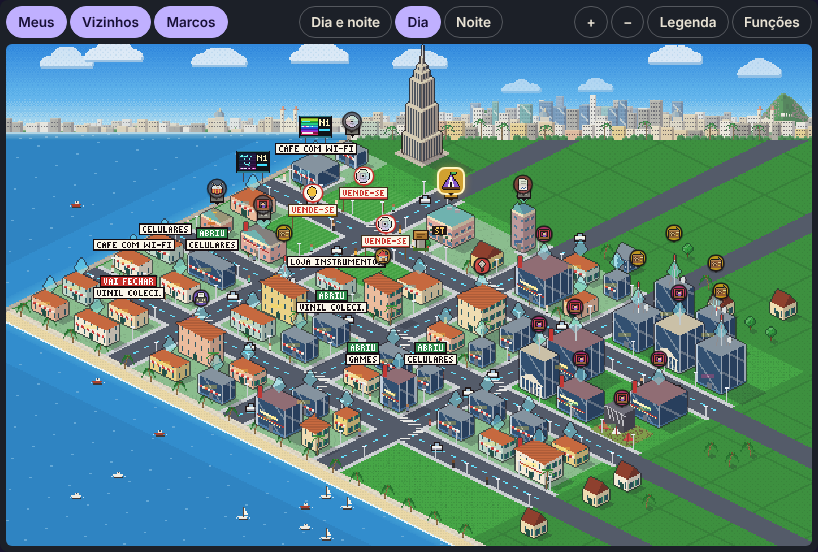
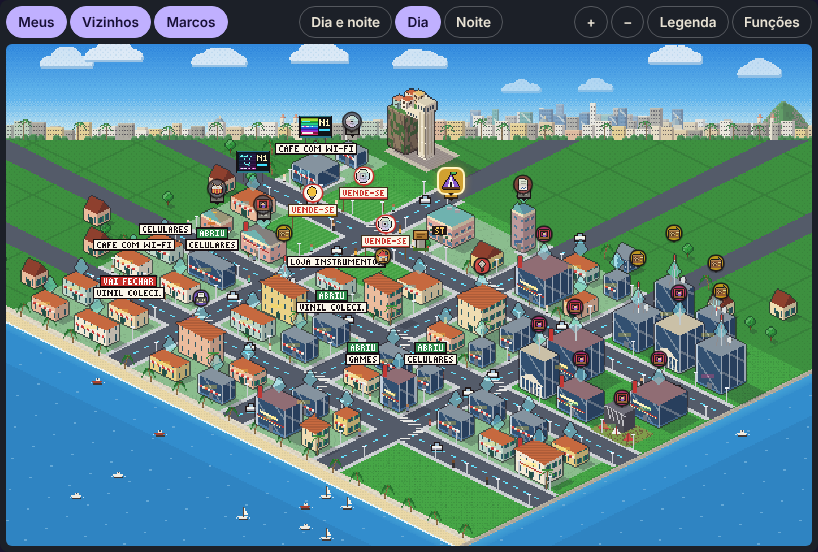
R31 onda 4 (GEO): mapa orientado por cidade (porto na água, casas de show na orla, sem mover lotes), marcos de água na frente como sprites, Elevador Lacerda com desenho próprio
Claude-Session: https://claude.ai/code/session_011XM6gk992aeaeJ7tjK8svn

Changed region(s): [[0.5501, 0.6775, 1.0, 1.0], [0.0, 0.1848, 0.4279, 0.5543], [0.4584, 0.0924, 1.0, 0.308]]

diff --git a/src/ui/pixel/campus18px.ts b/src/ui/pixel/campus18px.ts
@@ -695,7 +695,7 @@ function groundCanvas(env: Env18, seed: number, used: Set<number>, sprites: Spri
   // a favela do morro, as palmeiras do calçadão e os barcos — tudo desenhado de trás para a frente
   const deco = deco31(geo, look, env, seed, lmAt);
   const td = new T(p, 0, 0), tl = new T(gl, 0, 0);
-  const lmItems = lmAt.map((q) => ({ d: q.gx + q.gy, f: () => {
+  const lmItems = lmAt.filter((q) => !q.front).map((q) => ({ d: q.gx + q.gy, f: () => {
     const [lx, ly] = iso(q.gx, q.gy);
     marks.push({ id: q.lm.id, box: drawLmIso27(p, gl, q.lm.id, q.lm.sh, lx, ly, y, q.wet, seed, env.city) });
   } }));
@@ -755,13 +755,15 @@ export function roadOutAt31(geo: Geo31, gx: number, gy: number): boolean {
  *  terra firme. Em lado de rio, o marco de terra vai para a outra margem. Puro sobre a geometria da cena. */
 export const LM_WET31 = new Set(['ny_liberty', 'syd_opera', 'syd_bridge', 'rio_cable', 'lis_belem', 'lis_bridge', 'ist_bridge', 'sf_gate', 'lon_tbridge', 'pra_bridge', 'ny_brooklyn']);
 const LM_HILL31 = new Set(['rio_christ', 'rio_corcovado']);
-export interface LmAt31 { lm: Landmark19; gx: number; gy: number; wet: boolean; tall: boolean }
+export interface LmAt31 { lm: Landmark19; gx: number; gy: number; wet: boolean; tall: boolean; /** na frente do mapa (leste/sul): vira sprite com profundidade */ front?: boolean }
 export function lmPlace31(lms: Landmark19[], geo: Geo31, year: number): LmAt31[] {
   void year;
-  const cand: { gx: number; gy: number; side: 'w' | 'n'; i: number }[] = [];
+  const cand: { gx: number; gy: number; side: 'w' | 'n' | 'e' | 's'; i: number }[] = [];
   const along = [3.4, 9.4, 15.4, 21.4, 27.4];
   along.forEach((v, i) => { if (v < G.gh - 1) cand.push({ gx: -2.7, gy: v, side: 'w', i: i * 2 }); if (v + 1.2 < G.gw - 1) cand.push({ gx: v + 1.2, gy: -2.7, side: 'n', i: i * 2 + 1 }); });
-  const vis = (gx: number, gy: number) => { const [x, yy] = iso(gx, gy); return yy >= HZ + 8 && x > 14 && x < G.mw - 14; };
+  // R31 (GEO): na frente (leste/sul) só marcos de água — porto, ponte, ópera — quando a água do mapa está na frente
+  for (const f of [0.3, 0.5, 0.7]) { cand.push({ gx: G.gw + 2.7, gy: f * G.gh, side: 'e', i: 40 + f * 10 }); cand.push({ gx: f * G.gw, gy: G.gh + 2.7, side: 's', i: 41 + f * 10 }); }
+  const vis = (gx: number, gy: number) => { const [x, yy] = iso(gx, gy); return yy >= HZ + 8 && yy < G.mh - 4 && x > 14 && x < G.mw - 14; };
   const used = new Set<number>(), out: LmAt31[] = [];
   const order = lms.map((lm, k) => ({ lm, slot: (lm as Landmark19 & { slot?: number }).slot ?? k })).sort((a, b) => a.slot - b.slot);
   for (const { lm, slot } of order) {
@@ -769,7 +771,8 @@ export function lmPlace31(lms: Landmark19[], geo: Geo31, year: number): LmAt31[]
     let best: { k: number; gx: number; gy: number; wet: boolean; score: number } | null = null;
     cand.forEach((c, k) => {
       if (used.has(k)) return;
-      const out0 = (e: number): [number, number] => (c.side === 'w' ? [-e, c.gy] : [c.gx, -e]);
+      if ((c.side === 'e' || c.side === 's') && want !== 'wet') return;
+      const out0 = (e: number): [number, number] => (c.side === 'w' ? [-e, c.gy] : c.side === 'n' ? [c.gx, -e] : c.side === 'e' ? [G.gw + e, c.gy] : [c.gx, G.gh + e]);
       const at0 = terrainAt31(geo, ...out0(2.7), G.gw, G.gh);
       let e = 2.7, wet = at0.t === 'water';
       if (want === 'wet' && !wet && at0.w && at0.w.o > 2.7 && at0.w.o < 5) { e = at0.w.o + 0.8; wet = true; }
@@ -785,9 +788,10 @@ export function lmPlace31(lms: Landmark19[], geo: Geo31, year: number): LmAt31[]
     });
     if (!best) continue;
     const b = best as { k: number; gx: number; gy: number; wet: boolean };
+    const side = cand[b.k].side;
     if (b.wet && want !== 'wet') continue; // marco de terra sem lugar em terra firme não vira ilha: fica de fora do mapa
     used.add(b.k);
-    out.push({ lm, gx: b.gx, gy: b.gy, wet: b.wet, tall: slot % 4 < 2 });
+    out.push({ lm, gx: b.gx, gy: b.gy, wet: b.wet, tall: slot % 4 < 2 && side !== 'e' && side !== 's', front: side === 'e' || side === 's' });
   }
   return out;
 }
@@ -1055,6 +1059,18 @@ export function buildScene18(bs: Bld18[], lots: Map<string, number>, env: Env18,
   sprites.sort((a, b) => a.depth - b.depth);
   const marks: Mark19[] = [];
   const gr = groundCanvas(env, seed, used, sprites, lmAt, marks, look, x.sale ?? []);
+  // R31 (GEO): marco de água na frente do mapa (ponte, ópera, estátua do porto): sprite com profundidade, não chão
+  for (const q of lmAt) if (q.front) {
+    const QW = 150, QH = 150, AX = 75, AY = 116;
+    const [lx, ly] = iso(q.gx, q.gy);
+    const pc = new Px(QW, QH), pl = new Px(QW, QH);
+    const bx = drawLmIso27(pc, pl, q.lm.id, q.lm.sh, AX, AY, env.year, q.wet, seed, env.city);
+    const ox = Math.round(lx - AX), oy = Math.round(ly - AY);
+    const box: [number, number, number, number] = [bx[0] + ox, bx[1] + oy, bx[2] + ox, bx[3] + oy];
+    marks.push({ id: q.lm.id, box });
+    sprites.push({ id: `lmk:${q.lm.id}`, c: pc.canvas(), lc: pl.canvas(), x: ox, y: oy, depth: q.gx + q.gy, box, door: [lx, ly], top: [lx, box[1]], fp: [q.gx, q.gy, 0, 0], kind: 'museum', st: 'open', filler: true });
+  }
+  sprites.sort((a, b) => a.depth - b.depth);
   // r27: placas "À venda" como sprites com profundidade (não somem atrás do prédio da frente)
   const signs: SaleSign27[] = (x.sale ?? []).filter((sl) => LOTS18[sl.lot]).map((sl) => saleSign27(sl, x.saleTxt ?? 'VENDA'));
   // r27 (I2): se um prédio da FRENTE cobre a placa, ela sobe acima do telhado dele (com haste até o lote)

diff --git a/src/data/geo31.ts b/src/data/geo31.ts
@@ -125,8 +125,8 @@ const ROWS: Geo31[] = [
   g('rotterdam', 's:river:quay:Nieuwe Maas~4', '', 'Nieuwe Maas ao sul, porto.'),
   g('brussels', '', '', 'Terra em volta.'),
   g('vienna', 'e:river:quay:Rio Danúbio~3', '', 'Danúbio a leste.'),
-  g('budapest', 'w:river:quay:Rio Danúbio (Buda)~4!hills', 'w:0.5', 'Pest no mapa; Danúbio a oeste com as colinas de Buda do outro lado.'),
-  g('prague', 'w:river:quay:Rio Vltava (Malá Strana)~2', 'w:0.4', 'Vltava a oeste, castelo no alto da outra margem.'),
+  g('budapest', 'w:river:quay:Rio Danúbio (Buda)~4!hills', '', 'Pest no mapa; Danúbio a oeste com as colinas de Buda do outro lado.'),
+  g('prague', 'w:river:quay:Rio Vltava (Malá Strana)~2!hills', '', 'Vltava a oeste, castelo no alto da outra margem.'),
   g('warsaw', 'e:river:quay:Rio Vístula~3', '', 'Vístula a leste.'),
   g('moscow', 's:river:quay:Rio Moscova~2', '', 'Rio Moscova ao sul.'),
   g('st_petersburg', 'n:river:quay:Rio Neva~4; w:bay:quay:Golfo da Finlândia+5', '', 'Neva ao norte, golfo a oeste.'),
@@ -266,3 +266,51 @@ export function terrainAt31(gg: Geo31, gx: number, gy: number, gw: number, gh: n
 /** Lados com água de cada tipo (para o horizonte). */
 export const waterSides31 = (gg: Geo31): Set<Side31> => new Set(gg.water.filter((w) => w.o < 5).map((w) => w.side));
 export const hillOn31 = (gg: Geo31, side: Side31): Hill31 | undefined => gg.hills.find((h) => h.side === side);
+
+// ---------------------------------------------------------------- orientação do mapa por cidade
+// A tabela acima está na bússola real. O mapa do jogo tem bairros fixos (lotes são dado de jogo: a vizinhança entre eles
+// entra na simulação): o PORTO e a estação ficam na borda leste/sudeste (lotes 31–42) e a ZONA DAS CASAS DE SHOW na borda
+// sul/sudoeste (lotes da boemia). Em vez de mover lotes, o mapa de cada cidade é GIRADO/ESPELHADO (8 orientações) para
+// que o porto encoste na água do porto, a boemia fique na orla da praia e os morros fiquem no fundo, onde o horizonte
+// os mostra. A geografia continua a mesma — só muda de que lado da tela ela aparece.
+
+/** Matriz [a, b, c, d] sobre o quadrado do mapa (x de oeste→leste, y de norte→sul): x' = a·x + b·y, y' = c·x + d·y. */
+export type Xf31 = [number, number, number, number];
+export const XF31: Xf31[] = [[1, 0, 0, 1], [0, -1, 1, 0], [-1, 0, 0, -1], [0, 1, -1, 0], [-1, 0, 0, 1], [1, 0, 0, -1], [0, 1, 1, 0], [0, -1, -1, 0]];
+const pt31 = (sd: Side31, t: number): [number, number] => (sd === 'n' ? [2 * t - 1, -1] : sd === 'e' ? [1, 2 * t - 1] : sd === 's' ? [2 * t - 1, 1] : [-1, 2 * t - 1]);
+const ap31 = (m: Xf31, [x, y]: [number, number]): [number, number] => [m[0] * x + m[1] * y, m[2] * x + m[3] * y];
+const sideAt31 = ([x, y]: [number, number]): Side31 => (y <= -0.999 ? 'n' : y >= 0.999 ? 's' : x >= 0.999 ? 'e' : 'w');
+const tOn31 = (sd: Side31, [x, y]: [number, number]): number => Math.round(((sd === 'n' || sd === 's' ? x : y) + 1) * 500) / 1000;
+/** Geografia vista com a matriz m (lados e trechos trocados; o resto igual). */
+export function xfGeo31(g: Geo31, m: Xf31): Geo31 {
+  const side = (sd: Side31) => sideAt31(ap31(m, pt31(sd, 0.5)));
+  return { ...g, water: g.water.map((w) => {
+    const sd = side(w.side), ta = tOn31(sd, ap31(m, pt31(w.side, w.a))), tb = tOn31(sd, ap31(m, pt31(w.side, w.b)));
+    return { ...w, side: sd, a: Math.min(ta, tb), b: Math.max(ta, tb) };
+  }), hills: g.hills.map((h) => ({ ...h, side: side(h.side) })) };
+}
+/** Nota da orientação: o porto (lotes do leste) pede a água do porto a leste no trecho 0,55–0,75; a boemia (sul) pede a
+ *  praia ao sul no trecho 0,1–0,4; morros valem no fundo (n/w) e atrapalham na frente. Sem nada a ganhar, fica a bússola real. */
+export function orientScore31(g: Geo31): number {
+  const cov = (w: Water31, t: number) => w.a <= t && w.b >= t && w.o < 3;
+  let sc = 0;
+  const port = g.water.filter((w) => w.shore === 'quay' && w.k !== 'lake');
+  if (port.some((w) => w.side === 'e' && cov(w, 0.65))) sc += 3;
+  else if (g.water.some((w) => w.side === 'e' && cov(w, 0.65))) sc += 1.5;
+  const beach = g.water.filter((w) => w.shore === 'beach');
+  if (beach.some((w) => w.side === 's' && cov(w, 0.25))) sc += 2;
+  else if (beach.some((w) => w.side === 'e' && cov(w, 0.65))) sc += 0.5;
+  for (const h of g.hills) sc += h.amp < 0.3 ? 0 : h.side === 'n' || h.side === 'w' ? 1 : -2;
+  return sc;
+}
+const ORIENT31 = new Map<string, Geo31 & { xf: number }>();
+/** Geografia como aparece no mapa do jogo (orientada para o porto, a orla e os morros no fundo). */
+export function mapGeo31(city: string): Geo31 & { xf: number } {
+  const hit = ORIENT31.get(city);
+  if (hit) return hit;
+  const g = geo31(city);
+  let best = { ...g, xf: 0 }, bs = orientScore31(g) + 0.6;
+  XF31.forEach((m, i) => { if (!i) return; const x = xfGeo31(g, m), sc = orientScore31(x) + (i < 4 ? 0.3 : 0); if (sc > bs + 1e-9) { bs = sc; best = { ...x, xf: i }; } });
+  ORIENT31.set(city, best);
+  return best;
+}

diff --git a/tests/r31-geo.test.ts b/tests/r31-geo.test.ts
@@ -4,7 +4,8 @@ import { defaultConfig } from '../src/sim/bot';
 import { createGame } from '../src/sim/worldgen';
 import { CITIES } from '../src/data/world';
 import { DIST18, LOTS18 } from '../src/sim/sys/campus18';
-import { GEO31, ISLANDS31, SIDES31, geo31, isIsland31, terrainAt31 } from '../src/data/geo31';
+import { GEO31, ISLANDS31, SIDES31, geo31, isIsland31, mapGeo31, terrainAt31 } from '../src/data/geo31';
+import { hasBespoke27 } from '../src/ui/pixel/lmiso27';
 import { BAY27, BRICK27, STONE27, TOWERS27, cityLook27, mapLms27 } from '../src/ui/pixel/city27';
 import { LM_WET31, geo18, lmPlace31, outerLots31, useGeo18 } from '../src/ui/pixel/campus18px';
 
@@ -20,7 +21,7 @@ describe('R31 GEO: tabela de geografia', () => {
     for (const c of Object.keys(GEO31)) expect(CITIES.some((x) => x.id === c) || sets.has(c), `cidade ${c} existe`).toBe(true);
   });
   it('nenhuma cidade é ilha (água nos quatro lados) salvo as marcadas como ilha', () => {
-    for (const g of Object.values(GEO31)) expect(isIsland31(g), g.city).toBe(ISLANDS31.has(g.city));
+    for (const g of Object.values(GEO31)) { expect(isIsland31(g), g.city).toBe(ISLANDS31.has(g.city)); expect(isIsland31(mapGeo31(g.city)), g.city).toBe(ISLANDS31.has(g.city)); }
     for (const c of ['rio', 'salvador', 'lisbon', 'barcelona', 'miami', 'sydney', 'istanbul']) expect(isIsland31(geo31(c)), c).toBe(false);
   });
   it('exemplos do dono: Rio (praia ao sul, baía, morro com favela), SP sem mar, Londres/Paris com rio, NY com rio dos dois lados', () => {
@@ -43,7 +44,7 @@ describe('R31 GEO: tabela de geografia', () => {
 
 describe('R31 GEO: nada em cima da água', () => {
   it('nenhum lote (em nenhum tamanho de mapa) cai em água, praia, cais ou outra margem', () => {
-    for (const g of Object.values(GEO31)) for (const [gw, gh] of GEOS) for (const lot of LOTS18) {
+    for (const g of [...Object.values(GEO31), ...Object.keys(GEO31).map(mapGeo31)]) for (const [gw, gh] of GEOS) for (const lot of LOTS18) {
       if (lot.gx + lot.w > gw || lot.gy + lot.d > gh) continue;
       for (let y = lot.gy; y < lot.gy + lot.d; y += 1) for (let x = lot.gx; x < lot.gx + lot.w; x += 1)
         expect(terrainAt31(g, x + 0.25, y + 0.25, gw, gh).t, `${g.city} ${gw}x${gh} lote ${lot.gx},${lot.gy}`).toBe('land');
@@ -77,5 +78,24 @@ describe('R31 GEO: nada em cima da água', () => {
     const ch = at.find((q) => q.lm.id === 'rio_christ')!, cab = at.find((q) => q.lm.id === 'rio_cable')!;
     expect(terrainAt31(rio.geo, ch.gx, ch.gy, 44, 32).t).toBe('hill');
     expect(cab.wet).toBe(true);
+  });
+});
+
+describe('R31 GEO: mapa orientado (porto na água, boemia na orla) sem mover lotes', () => {
+  it('toda cidade com porto (cais) tem a água do porto encostada nos lotes do porto (borda leste)', () => {
+    for (const g of Object.values(GEO31)) {
+      if (!g.water.some((w) => w.shore === 'quay' && w.k !== 'lake' && w.o < 3)) continue;
+      const m = mapGeo31(g.city);
+      // lote "Cais do porto"/"Ponta do cais" (gx 39–42, gy 18–23) no mapa 44×32: logo depois da borda leste há água
+      const at = terrainAt31(m, 44 + Math.max(...m.water.filter((w) => w.side === 'e').map((w) => w.o), 0.6) + 0.3, 21, 44, 32);
+      expect(at.t, g.city).toBe('water');
+    }
+  });
+  it('praia ao sul (casas de show na orla) quando a cidade tem praia e porto não briga com isso', () => {
+    for (const c of ['rio', 'salvador', 'recife', 'dakar', 'dar_es_salaam', 'manila']) expect(mapGeo31(c).water.some((w) => w.side === 's' && w.shore === 'beach'), c).toBe(true);
+    expect(mapGeo31('rio').xf).toBe(0); // o Rio já estava certo: Copacabana ao sul, Guanabara no porto
+  });
+  it('Elevador Lacerda tem desenho próprio (não é mais o arranha-céu genérico)', () => {
+    expect(hasBespoke27('ssa_lacerda')).toBe(true);
   });
 });

diff --git a/src/ui/pixel/lmiso27.ts b/src/ui/pixel/lmiso27.ts
@@ -788,7 +788,29 @@ function beamBridge(k: K, truss: boolean): Foot {
 // ---------------------------------------------------------------- catálogo
 
 interface Spec { base: Base; draw: (k: K) => Foot }
+/** R31 (GEO): Elevador Lacerda (Salvador) — escarpa da Cidade Alta com casario no alto, torre do elevador na Cidade
+ *  Baixa e passarela até o topo. Art déco creme desde a reforma de 1930; antes, torre de ferro treliçada. */
+function lacerda(k: K): Foot {
+  const deco = k.year >= 1930, rock = C('#8a7660'), green = C('#4e8a44');
+  // escarpa (fundo à esquerda) com mata na encosta e casario colonial no alto
+  ibox(k, -1.5, -0.2, 0.8, 1.1, 0, 30, rock, { top: green, tex: (_sd, s, z) => (noise(Math.floor(s / 2), Math.floor(z / 3), k.seed + 5) < 0.35 ? tn(green, 2) : (Math.floor(s) + Math.floor(z / 4)) % 5 === 0 ? tn(rock, 2) : 0) });
+  const roofs = [C('#c8603c'), C('#e8c070'), C('#d88a6a')], walls = [C('#f0e4cc'), C('#e8c8a0'), C('#a8d0c8'), C('#f4ecdc')];
+  [[-1.9, -0.9], [-1.2, -0.9], [-1.9, 0.3], [-1.2, 0.2]].forEach(([u, v], i) => ibox(k, u, v, 0.3, 0.3, 30, 6 + (i % 2) * 2, walls[i % walls.length], { top: roofs[i % roofs.length], tex: winTex(C('#4a3a30'), 4, 3, { from: 2 }) }));
+  // passarela do topo da torre até a escarpa
+  const tw = deco ? C('#ece2cc') : C('#7a7e86');
+  ibox(k, -0.4, 0.15, 0.75, 0.2, 27, 4, tw, { tex: winTex(C('#3a4a5a'), 4, 2, { from: 1 }) });
+  // torre do elevador
+  const tex: Tex = deco
+    ? (_sd, s, z, len) => (s > 0.5 && s < len - 0.5 && Math.floor(s) % 3 === 1 && z > 4 && z < 36 ? C('#c8bca0') : Math.floor(z) % 12 === 0 ? C('#f8f2e2') : 0)
+    : (_sd, s, z) => ((Math.floor(s) + Math.floor(z)) % 4 === 0 || (Math.floor(s) - Math.floor(z) + 40) % 4 === 0 ? C('#4a4e56') : C('#9aa0a8'));
+  ibox(k, 0.55, 0.15, 0.38, 0.38, 0, 36, tw, { tex });
+  ibox(k, 0.55, 0.15, 0.48, 0.48, 36, 7, tw, { top: deco ? C('#d8cfb8') : C('#5a5e66'), tex: winTex(C('#3a4a5a'), 7, 2, { from: 2, to: 5 }) });
+  if (deco) { const [x, y] = ip(k, 0.55, 0.15, 44); k.p.rect(x - 1, y - 3, 2, 3, tw); lamp(k, x, y - 4, REDL); }
+  for (const z of [38, 40]) { const [x, y] = ip(k, 0.35, 0.6, z); lamp(k, x, y, WARM); lamp(k, x + 3, y - 1, WARM); }
+  return { r1: 1.6, r2: 1.2, h: 46 };
+}
 const BESPOKE: Record<string, Spec> = {
+  ssa_lacerda: { base: 'plaza', draw: lacerda },
   lon_bigben: { base: 'plaza', draw: (k) => bigBen(k) },
   lon_tbridge: { base: 'none', draw: towerBridge },
   lon_eye: { base: 'plaza', draw: wheel },

diff --git a/src/ui/pixel/city27.ts b/src/ui/pixel/city27.ts
@@ -32,7 +32,7 @@ import { bldPop19, lotPop19, upkeep19, type PopAct19 } from '../../sim/sys/world
 import { scandal17 } from '../../sim/scandal17';
 import { LMW27B, LMX27B } from './lmdata27';
 import { ownsLot31 } from '../../sim/sys/lots31';
-import { geo31, waterSides31, type Geo31 } from '../../data/geo31';
+import { mapGeo31, waterSides31, type Geo31 } from '../../data/geo31';
 
 // ---------------------------------------------------------------- utilidades determinísticas
 
@@ -115,7 +115,7 @@ export function cityLook27(city: string, lat: number, year: number): CityLook27 
   const trop = Math.abs(lat) < 30;
   const wall = k === 'brick' ? ['#8a4430', '#7a3a2a', '#9a5a40', '#6a4a40'] : k === 'bay' ? ['#f0d8a8', '#e8a888', '#a8d0c8', '#f4ecdc', '#e8c868'] : k === 'towers' ? (year < 1950 ? ['#a87a5a', '#8a6a5a', '#c8b8a0'] : ['#8a9aa8', '#5a6a80', '#c8ccd0', '#a87a5a']) : k === 'stone' ? ['#e4d6b8', '#d8c8a6', '#ece2cc', '#cdbb98'] : ['#d0c0a0', '#b8a888', '#a0a8b0', '#c89878'];
   // R31 (GEO): água e morros vêm da tabela de geografia (o mapa não é mais cercado de mar por todos os lados)
-  const geo = geo31(city), ws = waterSides31(geo);
+  const geo = mapGeo31(city), ws = waterSides31(geo); // R31 (GEO): orientada (porto na água, boemia na orla)
   const hAmp = (sd: 'n' | 'w') => geo.hills.find((x) => x.side === sd)?.amp ?? 0;
   const hillAmp = Math.max(0, ...geo.hills.map((x) => x.amp));
   const sea = geo.water.some((w) => (w.k === 'sea' || w.k === 'bay') && w.o < 5);

diff --git a/docs/r31/DECISOES.md b/docs/r31/DECISOES.md
@@ -294,10 +294,14 @@ Cada linha: data · onda · decisão (o que substituiu o quê) · motivo · valo
 - **Marcos:** cada marco pede água (pontes, Opera House, Estátua da Liberdade, bondinho do Pão de Açúcar, Torre de Belém),
   morro (Cristo) ou terra firme; vão para o candidato do fundo mais próximo do bastidor antigo que combina. Em lado de rio o
   marco de terra vai para a outra margem; marco de terra sem lugar em terra firme fica fora (não vira ilha).
-- **Prédios do jogador e da cidade (regra registrada, sem mudar dados):** sede, estúdio, lojas, casas de show e festival
-  continuam nos lotes de sempre (posição é dado de jogo). O que é coerente por construção: tudo fica em terra; os bairros do
-  porto (lotes 31–42, leste/sudeste) encostam na borda leste — nas cidades com água a leste (Rio, Nova York, Barcelona,
-  Istambul, Miami, Xangai…) o cais fica de fato junto da água. Mudar lotes de lugar por cidade (ex.: porto sempre colado
-  à água, casas de show perto da praia) mexeria em LOTS18 → fica como pergunta ao dono.
+- **Porto e casas de show junto da água (decisão do dono, 2026-10-16: "sim"):** a posição dos lotes entra na simulação
+  (vizinhança com bônus, `world19.lotGap19`), então os lotes NÃO mudam de lugar. Em vez disso o mapa de cada cidade é
+  orientado (`geo31.mapGeo31`: uma das 8 rotações/espelhamentos da geografia real, escolhida por pontuação): a água do porto
+  (cais) vai para a borda leste, onde ficam os lotes do porto e da estação (31–42); a praia vai para o sul, onde fica a zona
+  das casas de show (boemia); morros vão para o fundo. Sem ganho, fica a bússola real (o Rio já estava assim). A tabela
+  continua na bússola real; só muda de que lado da tela a geografia aparece. Marco de água que cai na frente (ponte,
+  ópera, estátua do porto) vira sprite com profundidade. Simulação e goldens iguais.
+- **Elevador Lacerda (decisão do dono):** desenho próprio (escarpa da Cidade Alta com casario, torre e passarela; art déco
+  desde 1930, ferro antes) no lugar do arranha-céu genérico.
 - Goldens r27-p2a, r27-p2b, r27-m3, r16-playbot sem mudança (só desenho).
 - **Testes mais leves a partir do fim da onda 4 (decisão do dono, 2026-10-16):** como a onda 5 vai mudar muita coisa, as frentes não rodam mais a suíte inteira. Cada uma roda `tsc`, os testes do próprio tema, os goldens (r27-p2a, r27-p2b, r27-m3, r16-playbot) e os testes que tocam os arquivos mexidos. A junção na integração faz o mesmo, mais a fumaça da build (`scripts/r31/smoke.mjs`). As falhas que as frentes já apontaram (r14-db, r17-data, r19-data-base, r29-connect-all, r31-base, r31-w2rev, r31-editor "disparar evento", r29-relics por tempo, r27-m2 "mesma seed") são corrigidas numa passada só no fim, na onda 6 (FIM-5 suíte verde).
